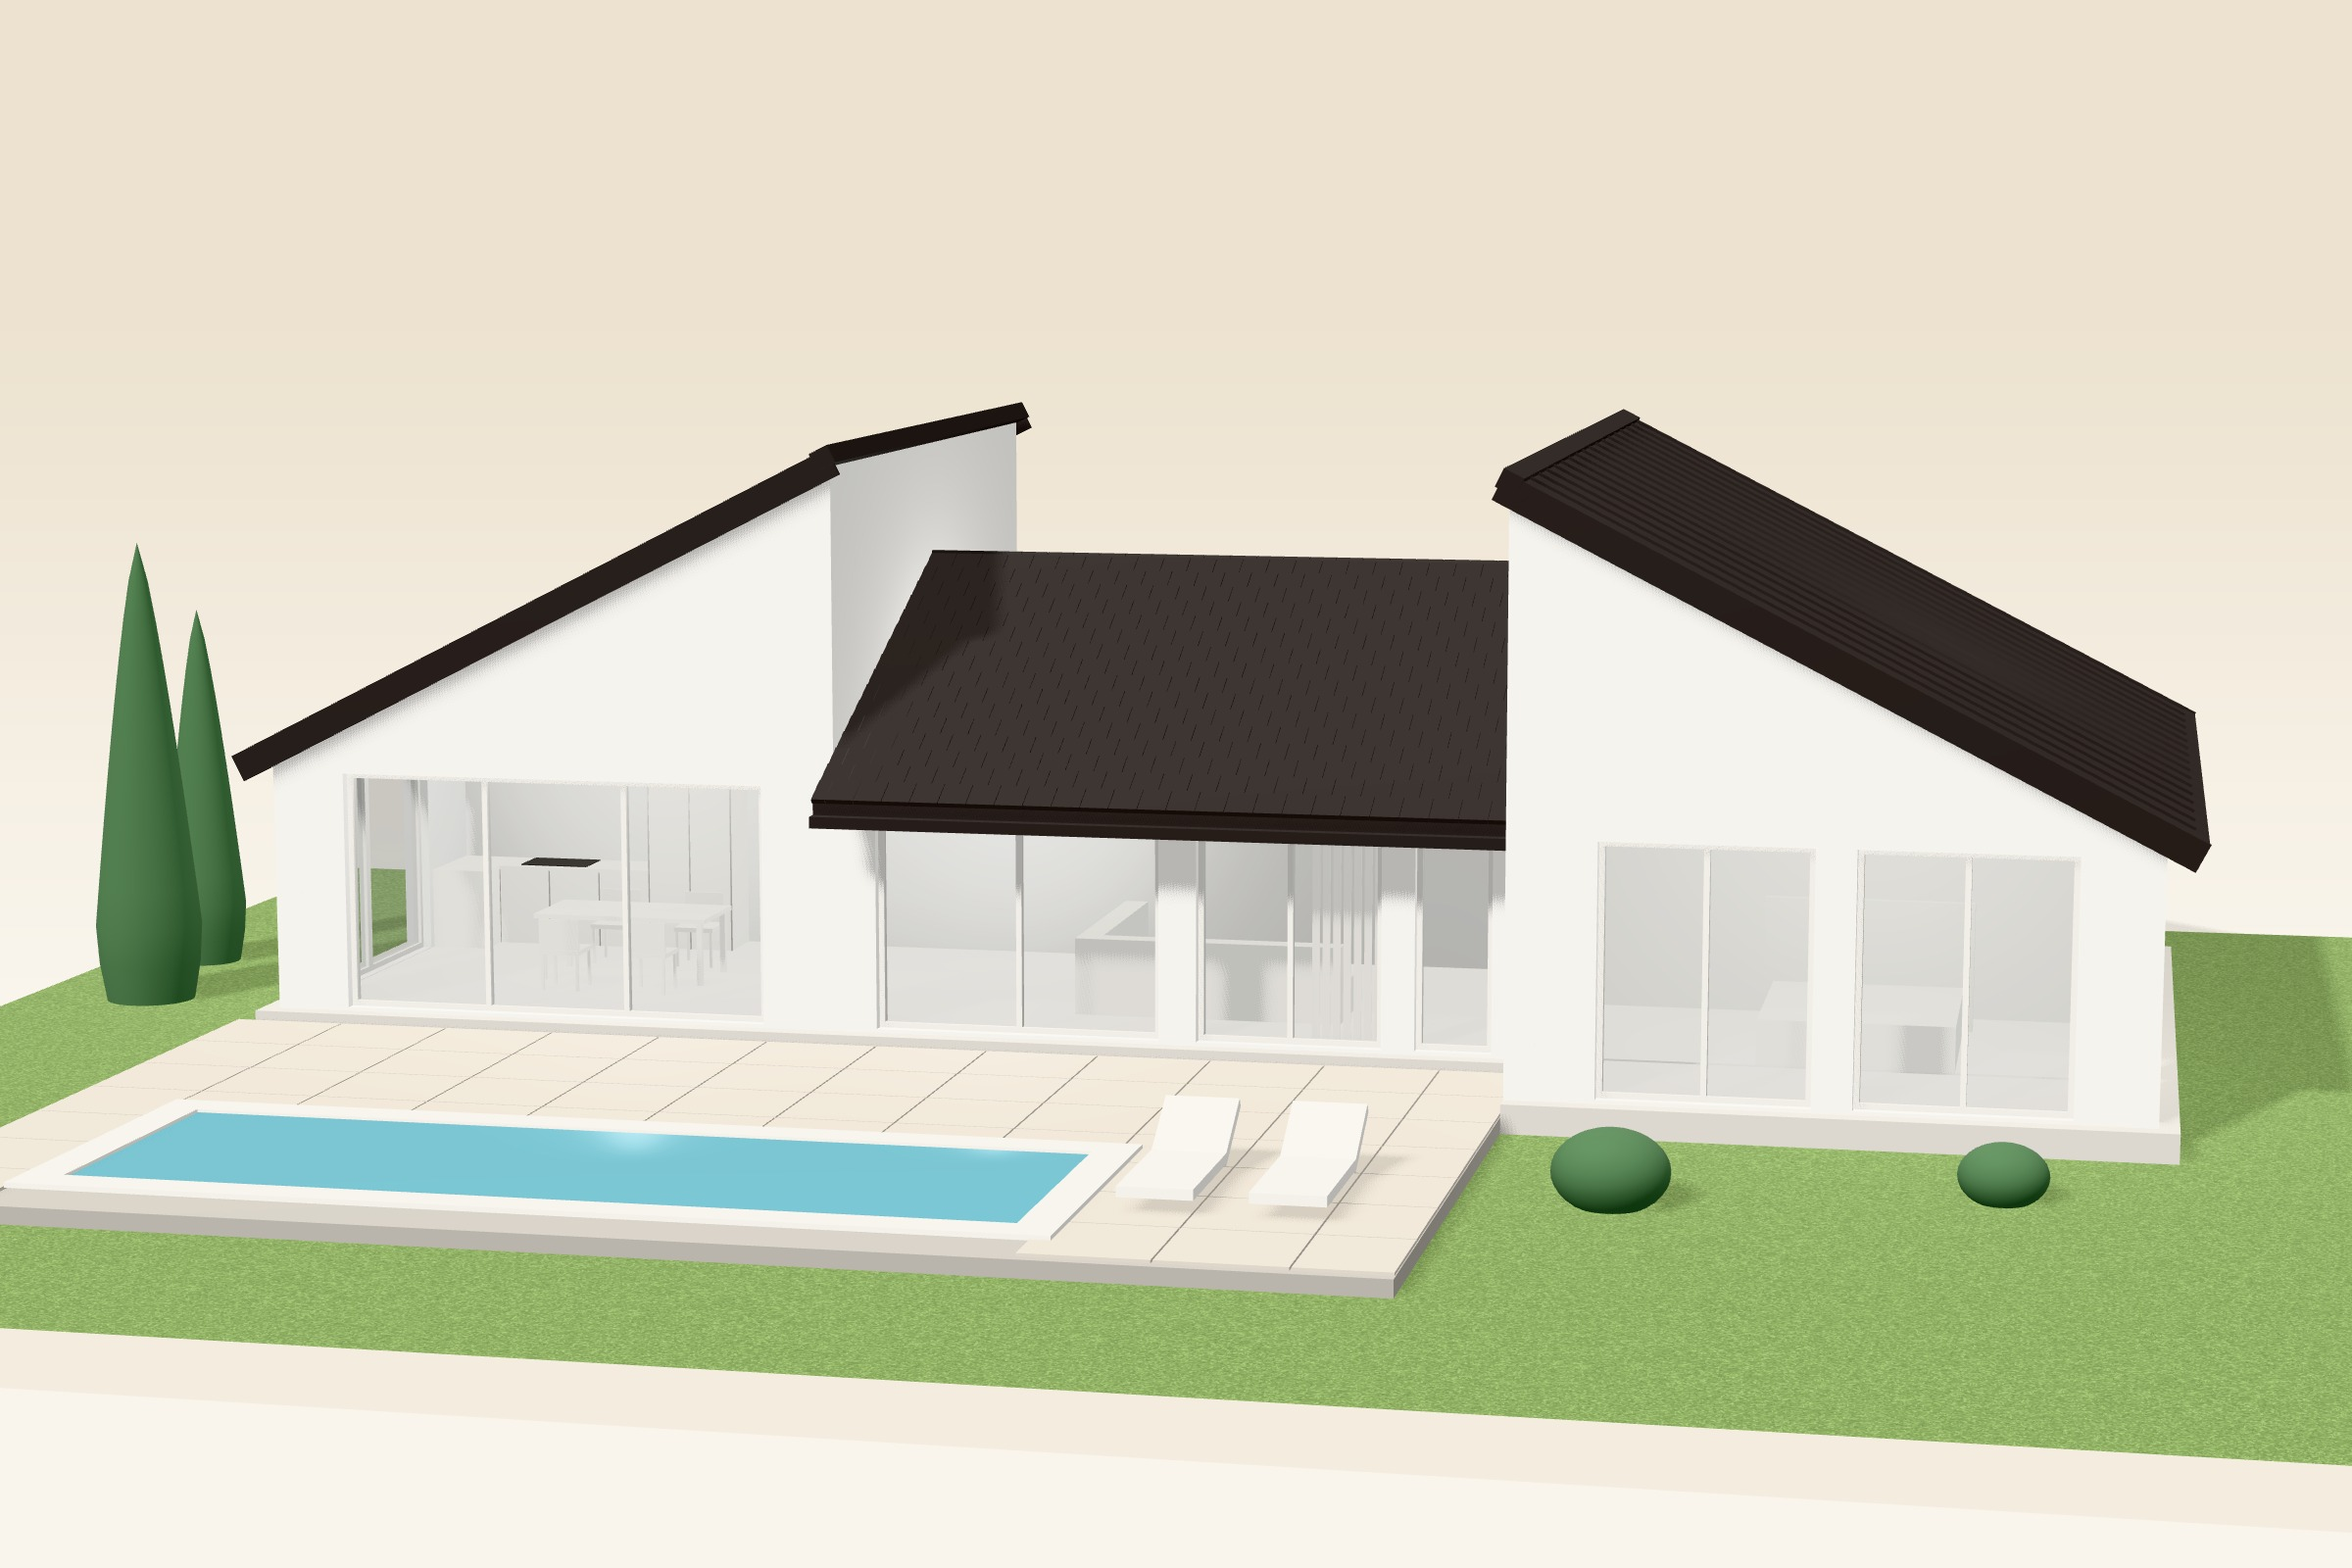
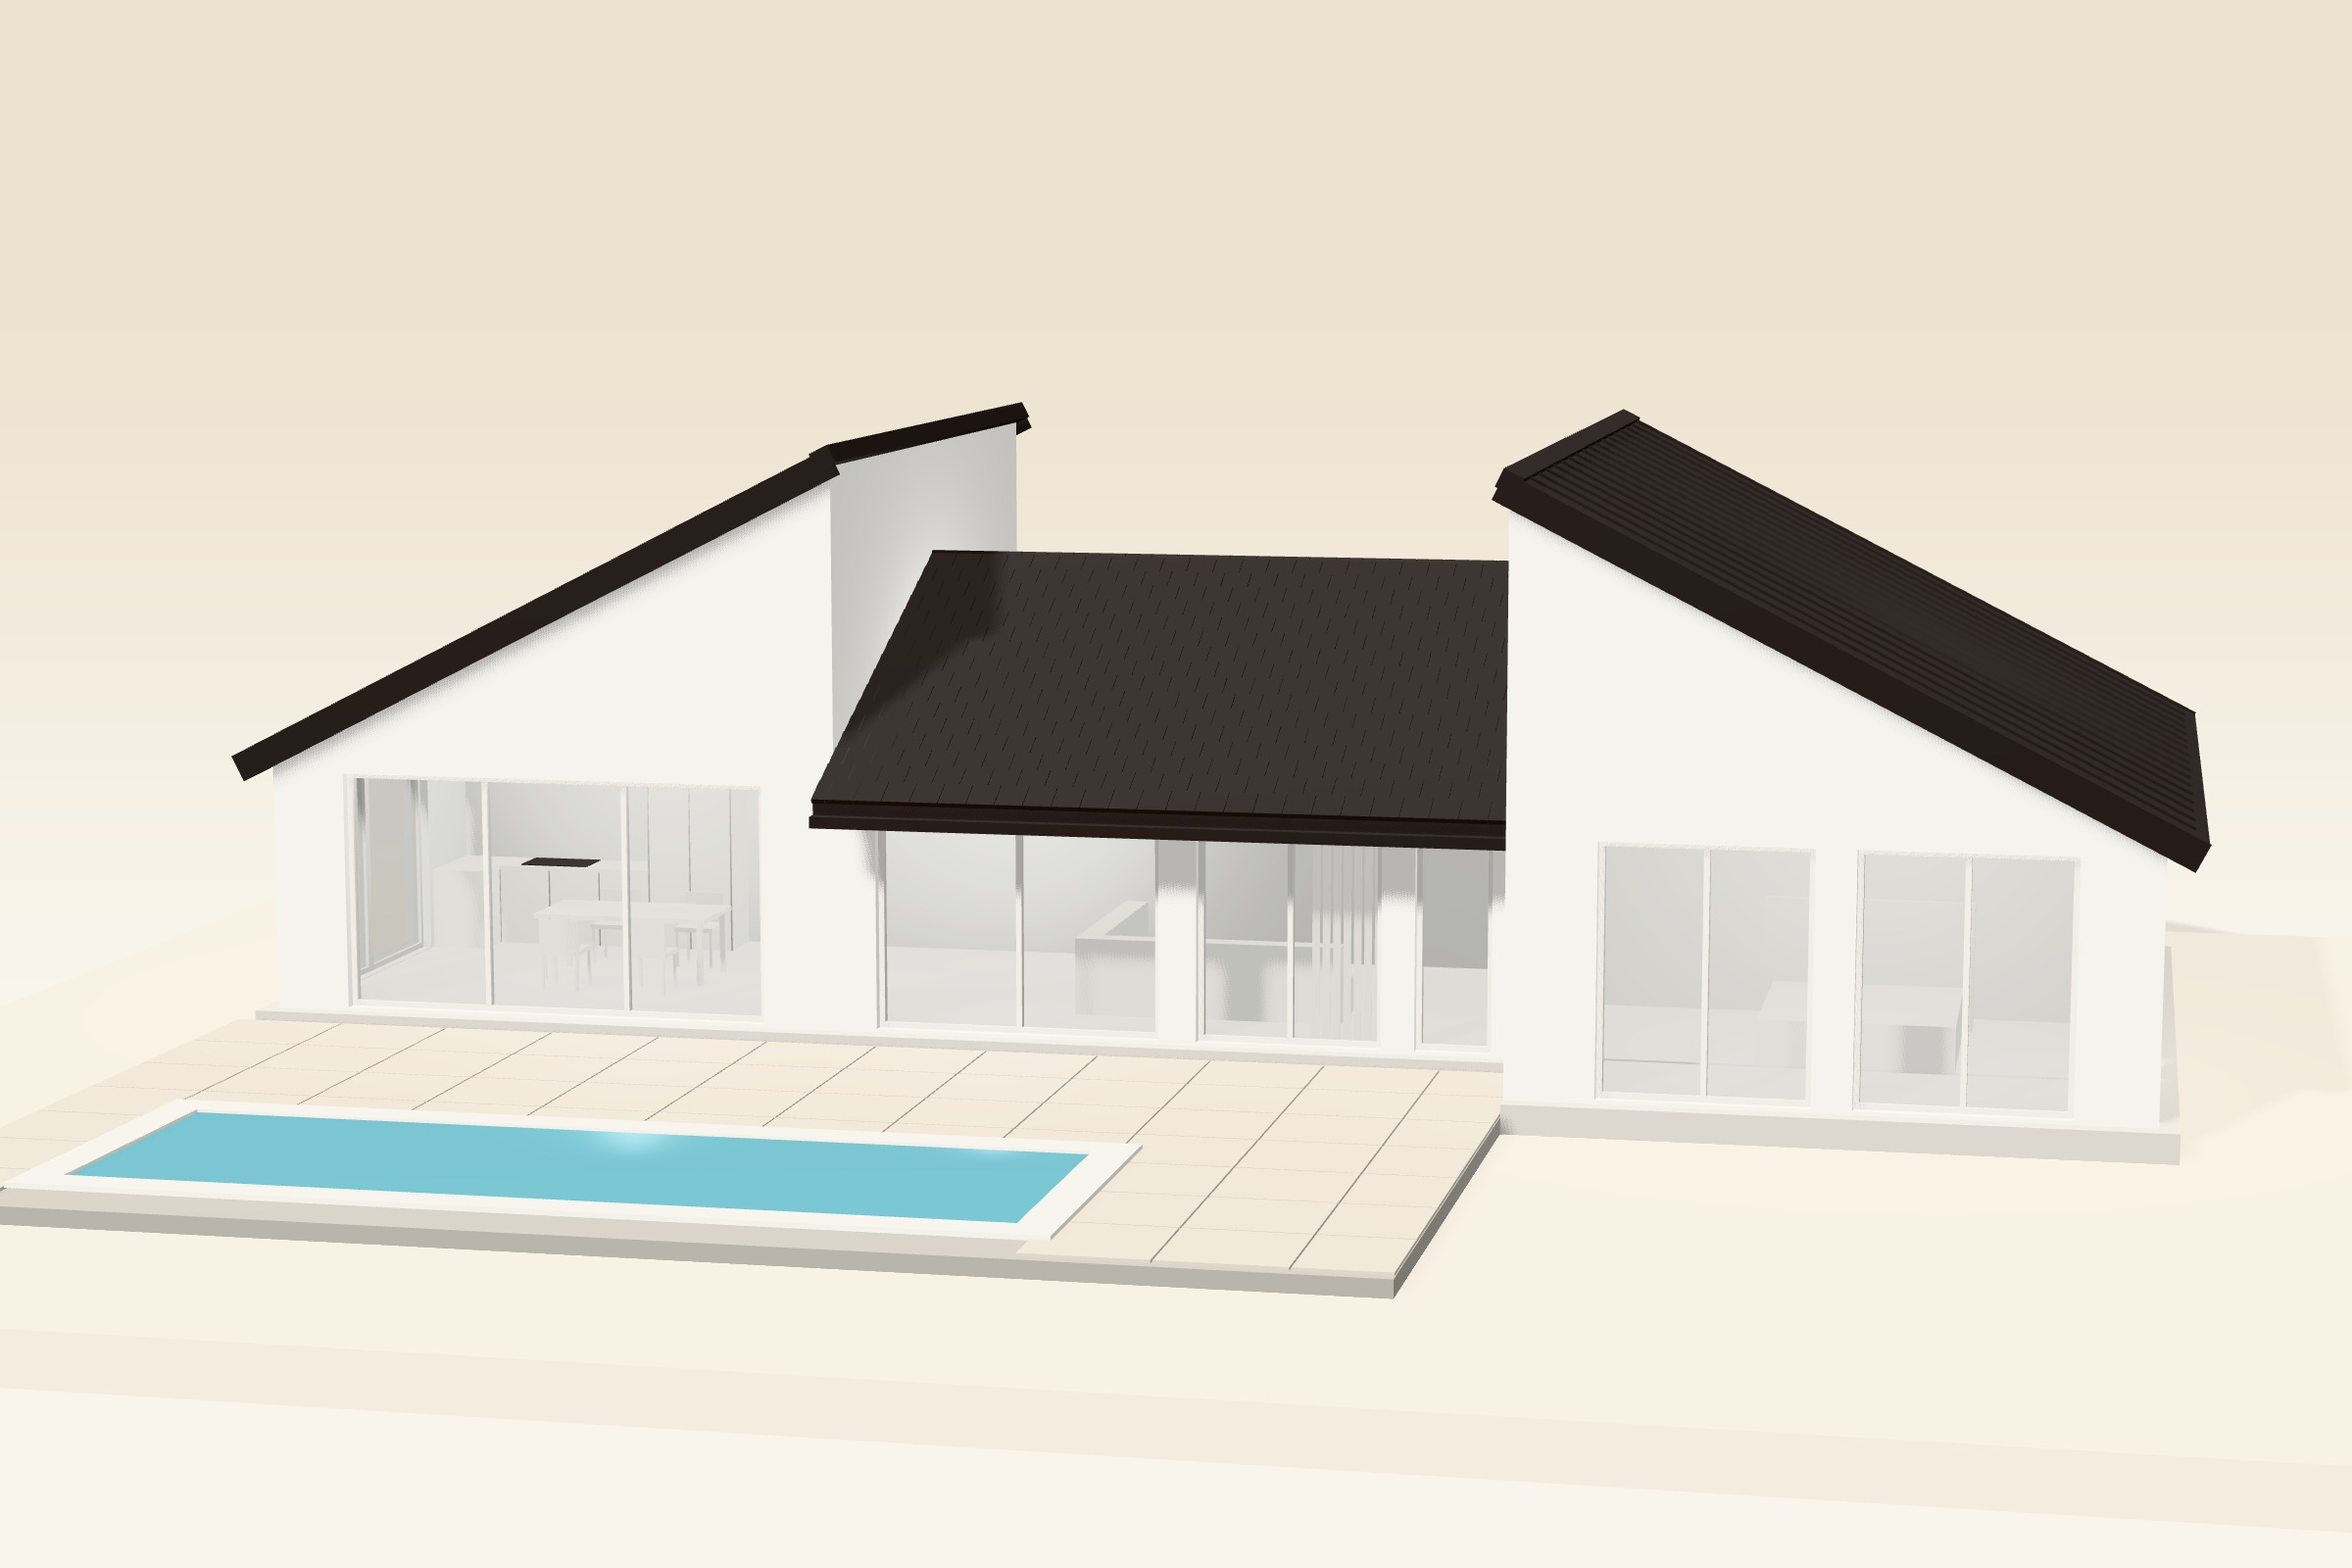
feat: strip the garden back to plain beige
Remove the lawn, trees, shrubs and outdoor loungers, and rename the last
step to Terasz. The finished scene is now the house, terrace and pool on the
bare beige board. Re-render the stills.

Changed region(s): [[0.0, 0.5938, 1.0, 0.9375], [0.0, 0.3438, 0.125, 0.7188], [0.1562, 0.5312, 0.1875, 0.625]]

diff --git a/components/hero/house-model.ts b/components/hero/house-model.ts
@@ -16,17 +16,6 @@ function oklch(l: number, c: number, h: number) {
   )
 }
 
-/** Seeded, so that the canvas and the rendered posters always match. */
-function seededRandom(seed: number) {
-  let state = seed
-  return () => {
-    state = (state + 0x6d2b79f5) | 0
-    let t = Math.imul(state ^ (state >>> 15), 1 | state)
-    t = (t + Math.imul(t ^ (t >>> 7), 61 | t)) ^ t
-    return ((t ^ (t >>> 14)) >>> 0) / 4294967296
-  }
-}
-
 export const SKY_START = oklch(0.972, 0.012, 85) // --beige
 const SKY_DAY = oklch(0.915, 0.028, 82)
 const RAW_WALL = oklch(0.84, 0.014, 75) // Bare pale blocks, before render.
@@ -101,38 +90,7 @@ function mesh(geometry: THREE.BufferGeometry, mat: THREE.Material) {
   return object
 }
 
-function grassTexture(lite: boolean) {
-  const size = lite ? 512 : 1024
-  const canvas = document.createElement("canvas")
-  canvas.width = size
-  canvas.height = size
-  const context = canvas.getContext("2d")!
-  context.fillStyle = "#6f8a4e"
-  context.fillRect(0, 0, size, size)
-  const random = seededRandom(7)
-  const blades = ["#7d9a58", "#64804a", "#8aa765", "#587441", "#95b070"]
-  context.lineWidth = lite ? 1.5 : 2
-  context.lineCap = "round"
-  for (let i = 0; i < (lite ? 9000 : 36000); i++) {
-    const x = random() * size
-    const y = random() * size
-    const angle = random() * Math.PI * 2
-    const length = 3 + random() * 6
-    context.strokeStyle = blades[Math.floor(random() * blades.length)]
-    context.beginPath()
-    context.moveTo(x, y)
-    context.lineTo(x + Math.cos(angle) * length, y + Math.sin(angle) * length)
-    context.stroke()
-  }
-  const texture = new THREE.CanvasTexture(canvas)
-  texture.colorSpace = THREE.SRGBColorSpace
-  texture.wrapS = THREE.RepeatWrapping
-  texture.wrapT = THREE.RepeatWrapping
-  texture.anisotropy = 8
-  return texture
-}
-
-type PartKind = "rise" | "drop" | "fade" | "grow"
+type PartKind = "rise" | "drop" | "fade"
 
 type Part = {
   object: THREE.Object3D
@@ -226,25 +184,6 @@ export function buildHouse({ lite = false }: { lite?: boolean } = {}) {
       end,
       travel: 5,
       materials: [mat],
-      opacity: 1,
-    })
-  }
-
-  const addGrow = (
-    object: THREE.Object3D,
-    x: number,
-    z: number,
-    start: number
-  ) => {
-    object.position.set(x, 0, z)
-    root.add(object)
-    parts.push({
-      object,
-      kind: "grow",
-      start,
-      end: start + 0.05,
-      travel: 0,
-      materials: [],
       opacity: 1,
     })
   }
@@ -931,7 +870,7 @@ export function buildHouse({ lite = false }: { lite?: boolean } = {}) {
     })
   )
 
-  /* Phase 4: frames, glass, light, then the garden. */
+  /* Phase 4: frames, glass and light, then the terrace. */
   const frameSpecs: BoxSpec[] = []
   const glassSpecs: BoxSpec[] = []
   const BAR = 0.06
@@ -1021,23 +960,7 @@ export function buildHouse({ lite = false }: { lite?: boolean } = {}) {
     opacity: 0.16,
   })
 
-  // A lawn over the board, and the water in the pool.
-  const grassMap = grassTexture(lite)
-  grassMap.repeat.set(7, 6)
-  const grassMaterial = new THREE.MeshStandardMaterial({
-    map: grassMap,
-    roughness: 1,
-    transparent: true,
-    opacity: 0,
-  })
-  const grass = new THREE.Mesh(
-    new THREE.PlaneGeometry(BOARD.width, BOARD.depth),
-    grassMaterial
-  )
-  grass.rotation.x = -Math.PI / 2
-  grass.position.set(0, 0.004, BOARD.z)
-  grass.receiveShadow = true
-  root.add(grass)
+  // The water in the pool. The ground stays the bare beige board.
   const waterMaterial = new THREE.MeshStandardMaterial({
     color: oklch(0.74, 0.07, 215),
     roughness: 0.3,
@@ -1054,63 +977,15 @@ export function buildHouse({ lite = false }: { lite?: boolean } = {}) {
   water.position.set(POOL_CX, DECK.top + 0.01, POOL_CZ)
   water.receiveShadow = true
   root.add(water)
-  parts.push(
-    {
-      object: new THREE.Group(),
-      kind: "fade",
-      start: 0.93,
-      end: 0.98,
-      travel: 0,
-      materials: [grassMaterial],
-      opacity: 1,
-    },
-    {
-      object: new THREE.Group(),
-      kind: "fade",
-      start: 0.93,
-      end: 0.98,
-      travel: 0,
-      materials: [waterMaterial],
-      opacity: 1,
-    }
-  )
-
-  // White loungers beside the pool.
-  const loungerMaterial = material(oklch(0.97, 0.003, 90), 0.7)
-  const lounger = () => {
-    const seat = boxGeometry({ size: [0.7, 0.1, 1.5], at: [0, 0.42, 0.25] })
-    const back = boxGeometry({
-      size: [0.7, 0.1, 0.8],
-      at: [0, 0.6, -0.8],
-      tilt: 0.55,
-    })
-    return mesh(mergeGeometries([seat, back]), loungerMaterial)
-  }
-  ;[1.3, 2.5].forEach((x, i) => addGrow(lounger(), x, 9.6, 0.93 + i * 0.01))
-
-  // Very few plain, smooth plants in one soft green.
-  const leaf = material(oklch(0.52, 0.07, 145), 0.9)
-  const segments = lite ? 16 : 36
-  const column = (height: number) =>
-    new THREE.LatheGeometry(
-      Array.from({ length: 13 }, (_, i) => {
-        const t = i / 12
-        const width =
-          height * 0.13 * Math.min(1, 0.72 + 2 * t) * (1 - t) ** 0.75
-        return new THREE.Vector2(width, t * height)
-      }),
-      segments
-    )
-  const mound = (radius: number) => {
-    const geometry = new THREE.SphereGeometry(radius, segments, segments / 2)
-    geometry.scale(1, 0.72, 1)
-    geometry.translate(0, radius * 0.6, 0)
-    return geometry
-  }
-  addGrow(mesh(column(5.2), leaf), -12.3, 1.8, 0.93)
-  addGrow(mesh(column(4.2), leaf), -12.7, -0.6, 0.935)
-  addGrow(mesh(mound(0.55), leaf), 5.1, 8.5, 0.94)
-  addGrow(mesh(mound(0.42), leaf), 8.6, 7.6, 0.945)
+  parts.push({
+    object: new THREE.Group(),
+    kind: "fade",
+    start: 0.93,
+    end: 0.98,
+    travel: 0,
+    materials: [waterMaterial],
+    opacity: 1,
+  })
 
   /* The drawing: every edge of the finished house, plus dimension lines. */
   const edges: THREE.BufferGeometry[] = ghostSources.map(
@@ -1221,7 +1096,6 @@ export function buildHouse({ lite = false }: { lite?: boolean } = {}) {
           materials.forEach((item) => item.dispose())
         }
       })
-      grassMap.dispose()
       sun.shadow.map?.dispose()
     },
   }
@@ -1255,10 +1129,6 @@ export function applyProgress(house: House, scene: THREE.Scene, p: number) {
         part.materials.forEach((item) => {
           item.opacity = part.opacity * t
         })
-        break
-      case "grow":
-        part.object.visible = t > 0
-        part.object.scale.setScalar(Math.max(t, 0.001))
         break
     }
   }

diff --git a/components/hero/phases.ts b/components/hero/phases.ts
@@ -19,5 +19,5 @@ export const PHASES = [
   { key: "roof", start: 0.4 },
   { key: "windows", start: 0.64 },
   { key: "interior", start: 0.74 },
-  { key: "garden", start: 0.88 },
+  { key: "terrace", start: 0.88 },
 ] as const
